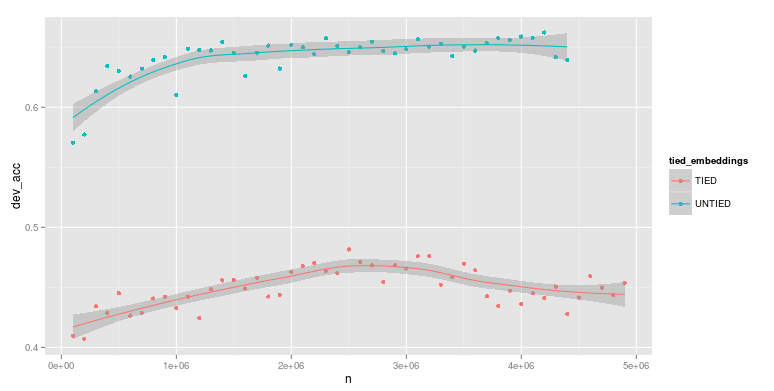
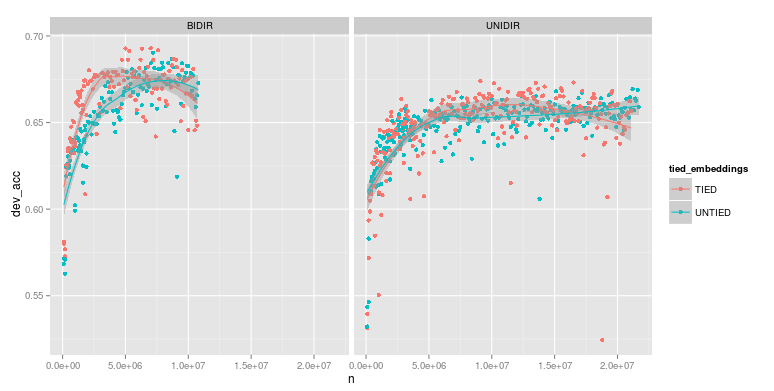
fix for tied embeddings

diff --git a/nn_baseline.py b/nn_baseline.py
@@ -7,9 +7,11 @@ import numpy as np
 from simple_rnn import SimpleRnn
 from sklearn.metrics import confusion_matrix
 import sys
+from tied_embeddings import TiedEmbeddings
 import time
 import theano
 import theano.tensor as T
+import os
 import util
 from updates import vanilla, rmsprop
 from vocab import Vocab
@@ -22,7 +24,7 @@ parser.add_argument("--num-from-dev", default=-1, type=int, help='number of egs 
 parser.add_argument("--dev-run-freq", default=100000, type=int, help='frequency (in num examples trained) to run against dev set')
 parser.add_argument("--num-epochs", default=-1, type=int, help='number of epoches to run. -1 => forever')
 parser.add_argument("--max-run-time-sec", default=-1, type=int, help='max secs to run before early stopping. -1 => dont early stop')
-parser.add_argument('--learning-rate', default=0.05, type=float, help='learning rate')
+parser.add_argument('--learning-rate', default=0.01, type=float, help='learning rate')
 parser.add_argument('--adaptive-learning-rate-fn', default='vanilla', help='vanilla (sgd) or rmsprop')
 parser.add_argument('--embedding-dim', default=100, type=int, help='embedding node dimensionality')
 parser.add_argument('--hidden-dim', default=50, type=int, help='hidden node dimensionality')
@@ -56,32 +58,51 @@ s1_idxs = T.ivector('s1')  # sequence for sentence one
 s2_idxs = T.ivector('s2')  # sequence for sentence two
 actual_y = T.ivector('y')  # single for sentence pair label; 0, 1 or 2
 
-# shared initial zero hidden state
-h0 = theano.shared(np.zeros(opts.hidden_dim, dtype='float32'), name='h0', borrow=True)
 
-# (potentially) shared embeddings
-shared_embeddings = None
-if opts.tied_embeddings:
-    shared_embeddings = util.sharedMatrix(vocab.size(), opts.embedding_dim, 'embeddings', orthogonal_init=True)
+# keep track of different "layers" that handle their own gradients.
+# includes rnns, final concat & softmax and, potentially, special handling for
+# tied embeddings
+layers = []
 
-# build seperate rnns for passes over s1/s2 with optional bidirectional passes.
-def rnn(idxs, forwards):
-    return SimpleRnn(vocab.size(), opts.embedding_dim, opts.hidden_dim, True, idxs, forwards, Wx=shared_embeddings)
+# helper to build an rnn across s1 or s2.
+# bidirectional passes are made with explicitly reversed idxs
+def rnn(idxs=None, sequence_embeddings=None):
+    return SimpleRnn(vocab.size(), opts.embedding_dim, opts.hidden_dim,
+                     idxs=idxs, sequence_embeddings=sequence_embeddings)
+rnns = None
 
-rnns = [rnn(s1_idxs, forwards=True), rnn(s2_idxs, forwards=True)]
+# decide set of sequence idxs we'll be processing. there will always the two
+# for the forward passes over s1 and s2 and, optionally, two more for the
+# reverse pass over s1 & s2 in the bidirectional case.
+idxs = [s1_idxs, s2_idxs]
 if opts.bidirectional:
-    rnns += [rnn(s1_idxs, forwards=False), rnn(s2_idxs, forwards=False)]
-final_rnn_states = [rnn.final_state_given(h0) for rnn in rnns]
+    idxs.extend([s1_idxs[::-1], s2_idxs[::-1]])
+
+# build rnns. we know we will build an rnn for each sequence idx but depending
+# on whether we are using tied embeddings there will be either 1 global embedding matrix
+# (whose gradients are managed by TiedEmbeddings) or there will be 1 embeddings matrix per
+# rnn (whose gradients are managed by the rnn itself)
+if opts.tied_embeddings:
+    # make shared tied embeddings helper
+    tied_embeddings = TiedEmbeddings(vocab.size(), opts.embedding_dim)
+    layers.append(tied_embeddings)
+    # build an rnn per idx slices. rnn don't maintain their own embeddings in this case.
+    slices = tied_embeddings.slices_for_idxs(idxs)
+    rnns = [rnn(sequence_embeddings=s) for s in slices]
+else:
+    # no tied embeddings; each rnn handles it's own weights
+    rnns = [rnn(idxs=i) for i in idxs]
+layers.extend(rnns)
 
 # concat final states of rnns, do a final linear combo and apply softmax for prediction.
+h0 = theano.shared(np.zeros(opts.hidden_dim, dtype='float32'), name='h0', borrow=True)
+final_rnn_states = [rnn.final_state_given(h0) for rnn in rnns]
 concat_with_softmax = ConcatWithSoftmax(final_rnn_states, NUM_LABELS, opts.hidden_dim)
+layers.append(concat_with_softmax)
 prob_y, pred_y = concat_with_softmax.prob_pred()
 
-# define all layers
-layers = rnns + [concat_with_softmax]
-
 # calc l2_sum across all params
-params = [l.params() for l in layers]
+params = [l.params_for_l2_penalty() for l in layers]
 l2_sum = sum([(p**2).sum() for p in itertools.chain(*params)])
 
 # calculate cost ; xent + l2 penalty
@@ -94,7 +115,7 @@ total_cost = cross_entropy_cost + l2_cost
 # calculate updates
 updates = []
 for layer in layers:
-    updates.extend(layer.updates_wrt_cost(total_cost, opts.learning_rate, updates))
+    updates.extend(layer.updates_wrt_cost(total_cost, opts.learning_rate))
 
 log("compiling")
 train_fn = theano.function(inputs=[s1_idxs, s2_idxs, actual_y],
@@ -119,7 +140,7 @@ def stats_from_dev_set():
     dev_c = confusion_matrix(actuals, predicteds)
     dev_c_accuracy = util.accuracy(dev_c)
     print "dev confusion\n %s (%s)" % (dev_c, dev_c_accuracy)
-    return {"dev_acc": dev_c_accuracy, 
+    return {"dev_acc": dev_c_accuracy,
             "dev_cost": util.mean_sd(costs),
             "dev_subcost": {"xent": util.mean_sd(xent_costs),
                             "l2": util.mean_sd(l2_costs)}}
@@ -130,7 +151,7 @@ START_TIME = int(time.time())
 epoch = 0
 n_egs_trained = 0
 training_early_stop_time = opts.max_run_time_sec + time.time()
-run = "RUN_%s" % START_TIME
+run = "RUN_%s_%s" % (START_TIME, os.getpid())
 while epoch != opts.num_epochs:
     costs = []
     for (s1, s2), y in zip(train_x, train_y):
@@ -145,7 +166,7 @@ while epoch != opts.num_epochs:
                      "run": run, "epoch": epoch, "n_egs_trained": n_egs_trained,
                      "e_dim": opts.embedding_dim, "h_dim": opts.hidden_dim,
                      "lr": opts.learning_rate, "train_cost": util.mean_sd(costs),
-                     "l2_penalty": opts.l2_penalty, 
+                     "l2_penalty": opts.l2_penalty,
                      "bidir": opts.bidirectional, "tied_embeddings": opts.tied_embeddings}
             stats.update(stats_from_dev_set())
             print "STATS\t%s" % json.dumps(stats)

diff --git a/simple_rnn.py b/simple_rnn.py
@@ -5,32 +5,36 @@ import theano.tensor as T
 from updates import vanilla, rmsprop
 
 class SimpleRnn(object):
-    def __init__(self, n_in, n_embedding, n_hidden, orthogonal_init, idxs, forwards, Wx=None):
-        if Wx is None:
-            self.Wx = util.sharedMatrix(n_in, n_embedding, 'Wx', orthogonal_init=orthogonal_init)
+    def __init__(self, n_in, n_embedding, n_hidden, idxs=None, sequence_embeddings=None):
+        assert (idxs is None) ^ (sequence_embeddings is None)
+        if idxs is not None:
+            # not tying weights, build our own set of embeddings
+            self.Wx = util.sharedMatrix(n_in, n_embedding, 'Wx', orthogonal_init=True)
+            self.sequence_embeddings = self.Wx[idxs]
+            self.using_shared_embeddings = False
         else:
-            self.Wx = Wx
-        self.Whh = util.sharedMatrix(n_hidden, n_hidden, 'Whh', orthogonal_init=orthogonal_init)
-#        self.Whh = util.shared(util.eye(n_hidden), 'Whh')
-        self.Whe = util.sharedMatrix(n_hidden, n_embedding, 'Whe', orthogonal_init=orthogonal_init)
+            # using tied weights, we won't be handling the update
+            self.sequence_embeddings = sequence_embeddings
+            self.using_shared_embeddings = True
+        self.Whh = util.sharedMatrix(n_hidden, n_hidden, 'Whh', orthogonal_init=True)
+        self.Whe = util.sharedMatrix(n_hidden, n_embedding, 'Whe', orthogonal_init=True)
         self.Wb = util.shared(util.zeros((n_hidden,)), 'Wb')
-        self.sequence_embeddings = self.Wx[idxs]
-        self.forwards = forwards
 
-    def params(self):
-        return [self.sequence_embeddings, self.Whh, self.Whe, self.Wb]
+    def params_for_l2_penalty(self):
+        params = [self.Whh, self.Whe, self.Wb]
+        if not self.using_shared_embeddings:
+            params.append(self.sequence_embeddings)
+        return params
 
-    def updates_wrt_cost(self, cost, learning_rate, existing_updates):
+    def updates_wrt_cost(self, cost, learning_rate):
         # calculate dense updates
         params = [self.Whh, self.Whe, self.Wb]
         gradients = T.grad(cost=cost, wrt=params)
         updates = vanilla(params, gradients, learning_rate)
-        # calculate a sparse update for embeddings (IF REQUIRED)
-        # this is clumsy; we want tied weights & updates per layer... hmm...
-        existing_update_params = [p for (p, u) in existing_updates]
-        if self.Wx not in existing_update_params:
+        # calculate a sparse update for embeddings if we are managing our own embedding matrix
+        if not self.using_shared_embeddings:
             gradient = T.grad(cost=cost, wrt=self.sequence_embeddings)
-            updates += [(self.Wx, T.inc_subtensor(self.sequence_embeddings, -learning_rate * gradient))]
+            updates.append((self.Wx, T.inc_subtensor(self.sequence_embeddings, -learning_rate * gradient)))
         return updates
 
     def recurrent_step(self, embedding, h_t_minus_1):
@@ -39,7 +43,6 @@ class SimpleRnn(object):
 
     def final_state_given(self, h0):
         [_h_t, h_t], _ = theano.scan(fn=self.recurrent_step,
-                                     go_backwards=not self.forwards,
                                      sequences=[self.sequence_embeddings],
                                      outputs_info=[h0, None])
         return h_t[-1]

diff --git a/tied_embeddings.py b/tied_embeddings.py
@@ -1,0 +1,38 @@
+import math
+import theano.tensor as T
+import util
+
+class TiedEmbeddings(object):
+    def __init__(self, n_in, n_embedding):
+        self.shared_embeddings = util.sharedMatrix(n_in, n_embedding, 'tied_embeddings', orthogonal_init=True)
+
+    def slices_for_idxs(self, idxs):  # list of vectors (idxs)
+        # concat all idx sequences into one sequence so we can slice into shared embeddings with
+        # a _single_ operation. we need to do this only because inc_subtensor only allows
+        # for one indexing :/
+        concatenated_idxs = T.concatenate(idxs)
+        self.concatenated_sequence_embeddings = self.shared_embeddings[concatenated_idxs]
+
+        # but now we have to reslice back into this to pick up the embeddings per original
+        # index sequence. each of these subslices is given to a seperate rnn to run over.
+        sub_slices = []
+        offset = 0
+        for idx in idxs:
+            seq_len = idx.shape[0]
+            sub_slices.append(self.concatenated_sequence_embeddings[offset : offset + seq_len])
+            offset += seq_len
+        return sub_slices
+
+    def params_for_l2_penalty(self):
+        # for l2 penalty only check the subset of the embeddings related to a specific example.
+        # ie NOT the entire shared_embeddings, most of which has nothing to do with each example.
+        return [self.concatenated_sequence_embeddings]
+
+    def updates_wrt_cost(self, cost, learning_rate):
+        # _one_ update for the embedding matrix; regardless of the number of rnns running
+        # over subslices
+        gradient = T.grad(cost=cost, wrt=self.concatenated_sequence_embeddings)
+        return [(self.shared_embeddings,
+                 T.inc_subtensor(self.concatenated_sequence_embeddings, -learning_rate * gradient))]
+
+

diff --git a/concat_with_softmax.py b/concat_with_softmax.py
@@ -14,13 +14,14 @@ class ConcatWithSoftmax(object):
         # hidden -> softmax
         self.Whs = util.sharedMatrix(n_hidden, n_labels, 'Whs')
         self.bs = util.shared(util.zeros((1, n_labels)), 'bs')
+        self.params = [self.Wih, self.bh, self.Whs, self.bs]
 
-    def params(self):
-        return [self.Wih, self.bh, self.Whs, self.bs]
+    def params_for_l2_penalty(self):
+        return self.params
 
-    def updates_wrt_cost(self, cost, learning_rate, existing_updates):
-        gradients = T.grad(cost=cost, wrt=self.params())
-        return vanilla(self.params(), gradients, learning_rate)
+    def updates_wrt_cost(self, cost, learning_rate):
+        gradients = T.grad(cost=cost, wrt=self.params)
+        return vanilla(self.params, gradients, learning_rate)
 
     def prob_pred(self):
         hidden = T.nnet.sigmoid(T.dot(self.input, self.Wih) + self.bh)

diff --git a/parse_out.py b/parse_out.py
@@ -1,0 +1,15 @@
+#!/usr/bin/env python
+import json, sys
+print "run e_dim h_dim lr l2_penalty epoch n dev_acc train_cost_mean dev_cost_mean tied_embeddings bidir".replace(" ", "\t")
+for line in sys.stdin:
+    if not line.startswith("STATS"):
+        continue
+    _stats, json_str = line.split("\t")  # sanity check only two
+    stats = json.loads(json_str)    
+    out = [stats[f] for f in ['run', 'e_dim', 'h_dim', 'lr', 'l2_penalty', 'epoch', 'n_egs_trained', 'dev_acc']]
+    out.append(stats['train_cost']['mean'])
+    out.append(stats['dev_cost']['mean'])
+    out.append("TIED" if stats['tied_embeddings'] else "UNTIED")
+    out.append("BIDIR" if stats['bidir'] else "UNIDIR")
+    print "\t".join(map(str, out))
+

diff --git a/README.md b/README.md
@@ -75,48 +75,26 @@ export COMMON="--embedding-dim=50 --hidden-dim=50 --dev-run-freq=100000 --bidire
 
 so not stable at 0.1. still running sgd; 
 
-## with tied weights
+## with tied weights & l2 penalty
 
 ```
-export COMMON="--embedding-dim=50 --hidden-dim=50 --learning-rate=0.01 --dev-run-freq=100000 --bidirectional"
-./nn_baseline.py $COMMON --tied-embeddings
-./nn_baseline.py $COMMON
+export COMMON="--embedding-dim=50 --hidden-dim=50 --learning-rate=0.01 --dev-run-freq=100000"
+./nn_baseline.py $COMMON | tee runs/onight.20151009.notied.nobidir
+./nn_baseline.py $COMMON --tied-embeddings | tee runs/onight.20151009.tied.nobidir
+./nn_baseline.py $COMMON --bidirectional | tee runs/onight.20151009.notied.bidir
+./nn_baseline.py $COMMON --bidirectional --tied-embeddings | tee runs/onight.20151009.tied.bidir
 ```
 
 ![tied_comparison_dev_acc](imgs/tied_comparison_dev_acc.png?raw=true "tied_comparison dev accuracy")
-![tied_comparison_costs](imgs/tied_comparison_costs.png?raw=true "tied_comparison test/dev costs")
-
-* untied is clear winner, but with x4 params for embeddings (40k entries)
-* what's with the inflection of _training_ cost in the TIED case (??)
-
-since #embeddings in untied is x4 what if we tried tying but with x4 embedding dimensionality?
-
-![tied_comparison_dev_acc_50_200](imgs/tied_comparison_dev_acc_50_200.png?raw=true "tied_comparison dev accuracy, 50d vs 200d")
-
-* hmmm. 200d was taking much longer to run. both 50d were overfitting. is there _any_ chance the 200d could eventually overtake the 50d untied?
-
-## l2
-
-adding an l2 penalty; stabilised (and still converging by the look)
-
-```
-export COMMON="--embedding-dim=100 --hidden-dim=50 --learning-rate=0.01 --dev-run-freq=10000 --bidirectional"
-./nn_baseline.py $COMMON --tied-embeddings --l2-penalty=0.0
-./nn_baseline.py $COMMON --tied-embeddings --l2-penalty=0.0001
-./nn_baseline.py $COMMON                   --l2-penalty=0.0
-./nn_baseline.py $COMMON                   --l2-penalty=0.0001
-```
-
-![l2_comparison_dev_acc](imgs/l2_comparison_dev_acc.png?raw=true "l2 comparison dev accuracy")
-![l2_comparison_costs](imgs/l2_comparison_costs.png?raw=true "l2 comparison test/dev costs")
 
 # TODOS
 
 * rmsprop for non embeddings; or at least some learning rate management.
 * preloading of data; it's slow to start
 * grus
+* neutral examples are non symmetric, should swap them 0.5 during training
 * unrolling? maybe not bother for hacking. might be finally up to a point where batching speed matters...
-* attend from s2 back to s1; then just MLP on s2 (on still concat?)
+* unidir on s2 attending back to bidir run over s1; then just MLP on s2 output
 
 # appendix: vocab check
 
